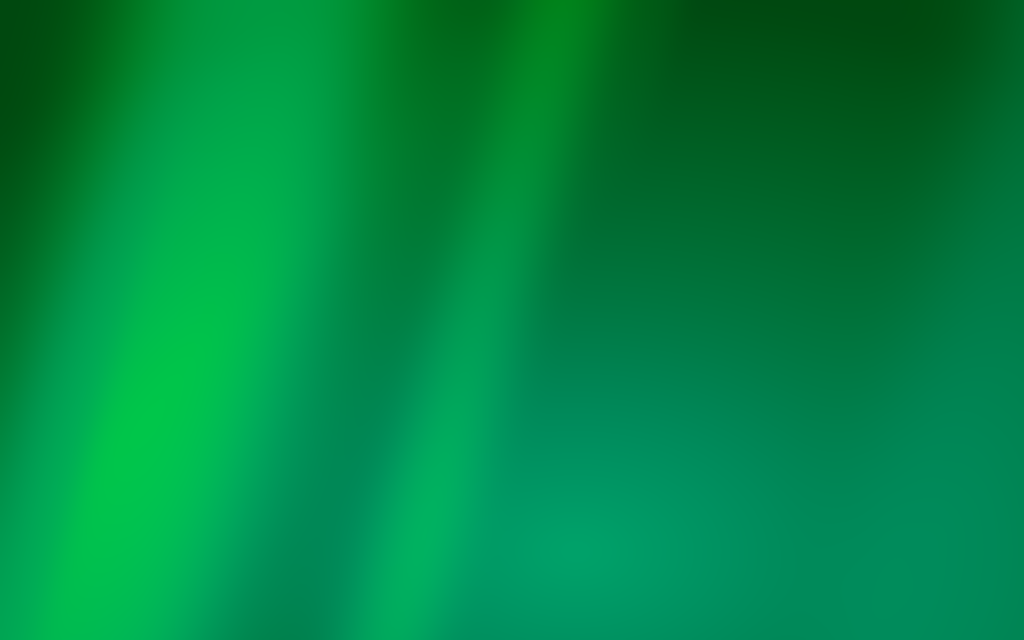
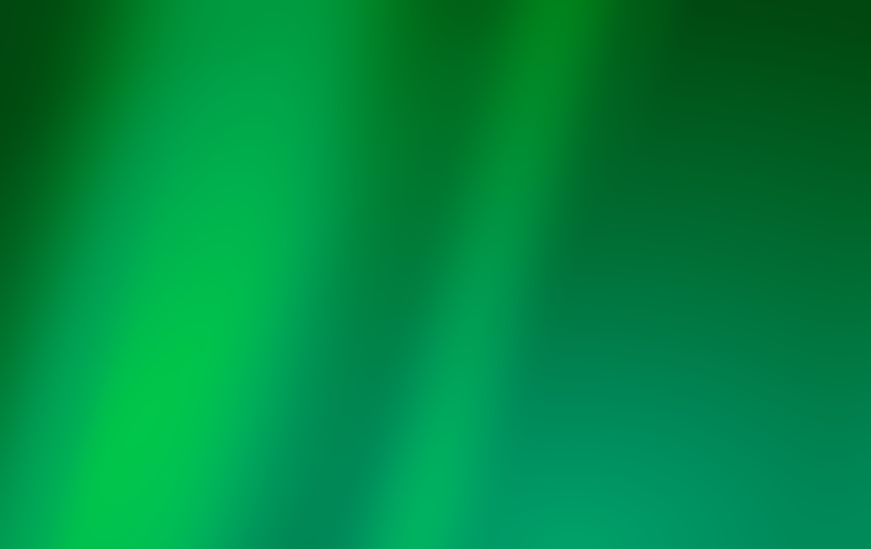
Added files via upload
Modified the card sound, corrected a bug on the .cpps related to the name of the sound files and resized the background.

diff --git a/myscene.cpp b/myscene.cpp
@@ -6,7 +6,7 @@
 void MyScene::play_card_sound()
 {
 
-    card_sound->setMedia(QUrl("qrc:/sounds/card sound.mp3"));
+    card_sound->setMedia(QUrl("qrc:/sounds/card.sound.mp3"));
     card_sound->play();
 
 }
@@ -75,9 +75,9 @@ void MyScene::set_croupier_cards()
 
 
      //set win sound
-     win_sound->setMedia(QUrl("qrc:/sounds/win sound.mp3"));
+     win_sound->setMedia(QUrl("qrc:/sounds/win.sound.mp3"));
      //set lose sound
-     lose_sound->setMedia(QUrl("qrc:/sounds/lose sound.mp3"));
+     lose_sound->setMedia(QUrl("qrc:/sounds/lose.sound.mp3"));
      //conditions for winnig or losing
      if ((player_sum <= 21 && croupier_sum <= 21 && player_sum > croupier_sum) || (player_sum <= 21 && croupier_sum > 21)){
          win_sound->play();

diff --git a/main.cpp b/main.cpp
@@ -82,7 +82,7 @@ int main(int argc, char *argv[])
 
     //connect MyButton draw signal clicked to MyScene scene slot draw()
     QObject::connect(draw,SIGNAL(clicked()),scene,SLOT(draw()));
-    //connect MyButton draw signal clicked to MyScene scene slot play_sound()
+    //connect MyButton draw signal clicked to MyScene scene slot play_()
     QObject::connect(draw,SIGNAL(clicked()),scene,SLOT(play_card_sound()));
 
 
